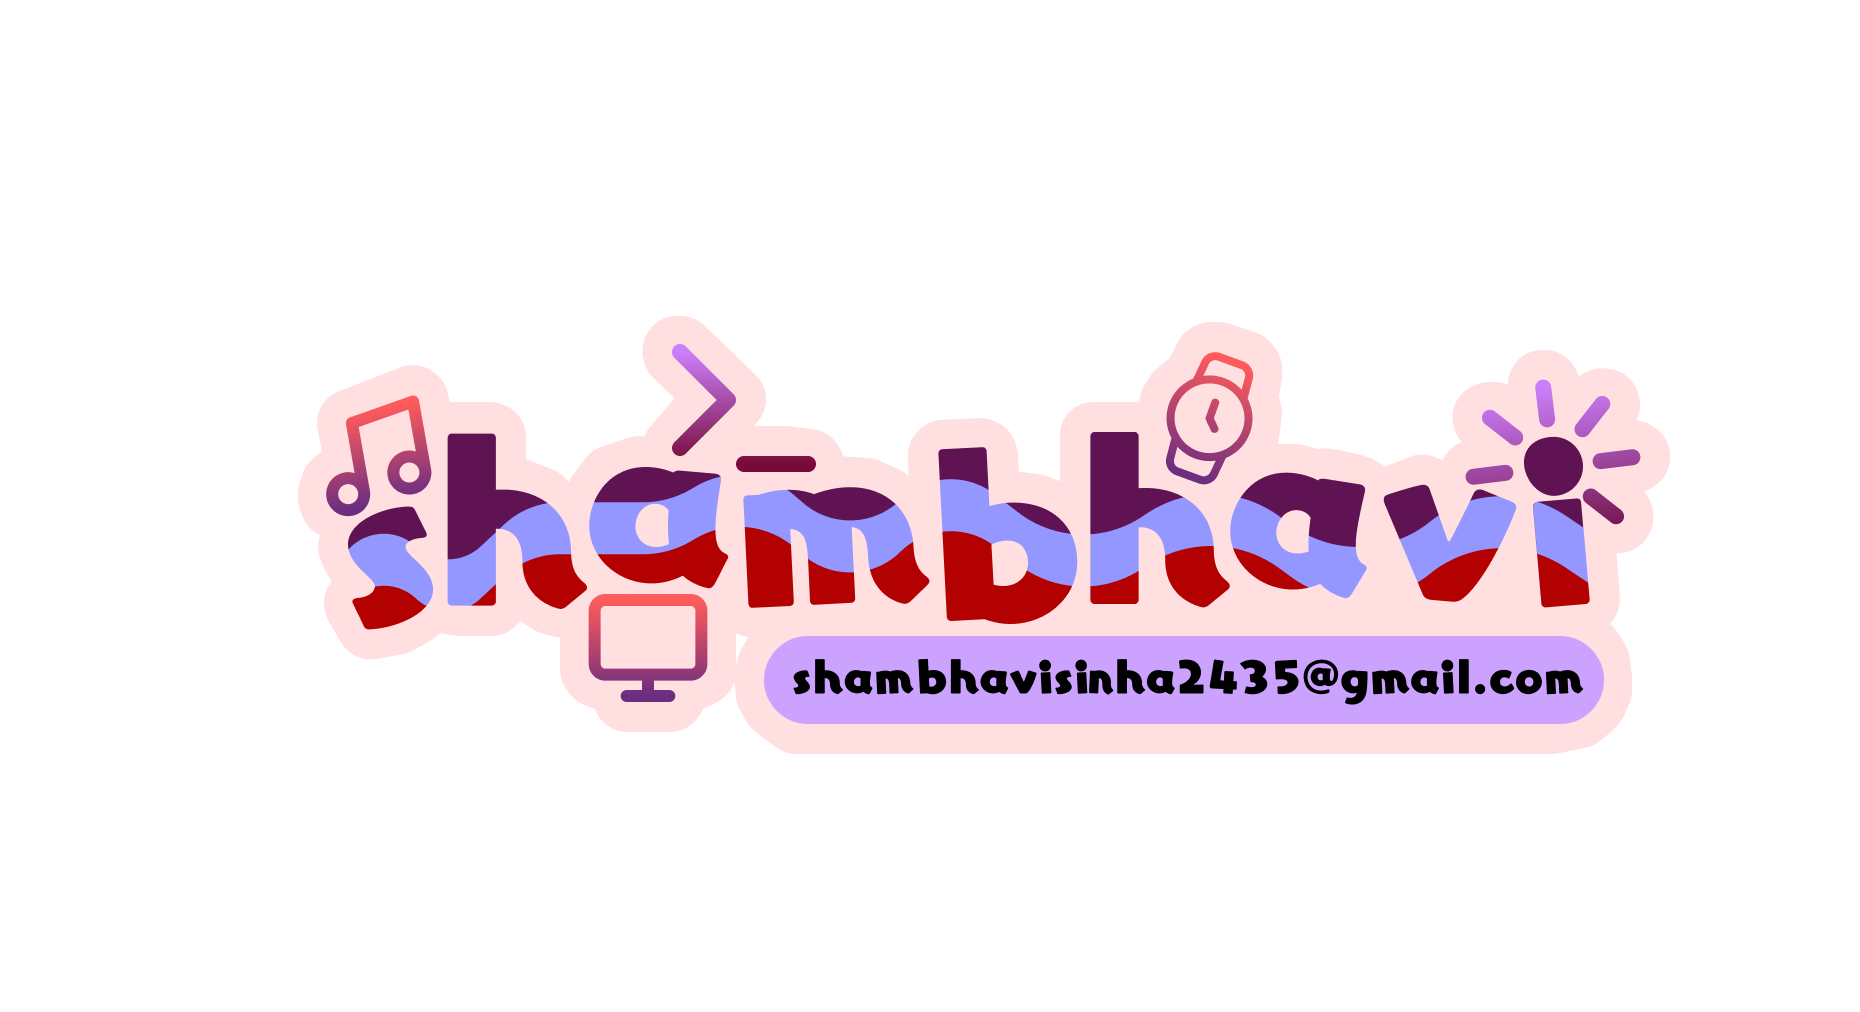
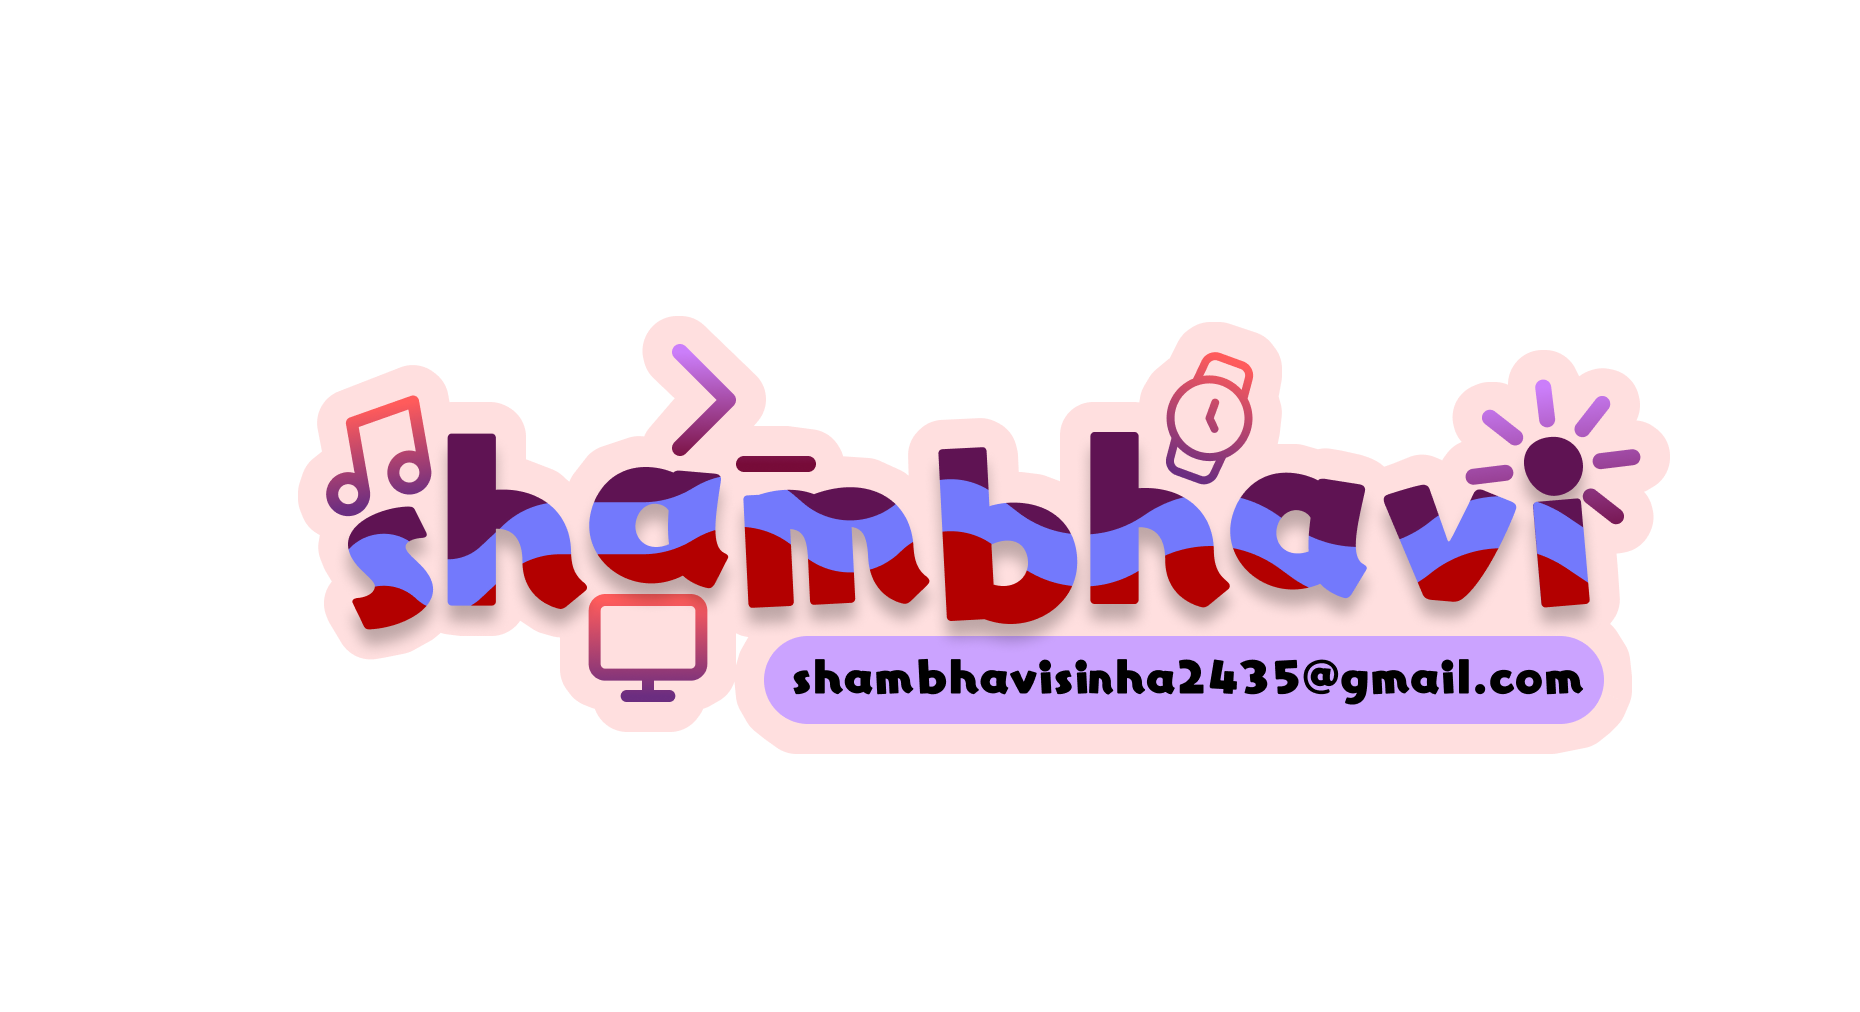
changed colour scheme

Changed region(s): [[0.1871, 0.4595, 0.8731, 0.6433], [0.4989, 0.6126, 0.5613, 0.6433]]

diff --git a/index.html b/index.html
@@ -6,68 +6,68 @@
     <link rel="stylesheet" href="style.css">
       <link rel="stylesheet" href="https://cdnjs.cloudflare.com/ajax/libs/font-awesome/6.0.0-beta3/css/all.min.css">
   </head>
-    <body class = "aboutMe">
+  <body>
+    <header>
+        <h1><img id = "name" src="name sticker.png" alt="Shambhavi Sinha" </h1>
+    </header>
+    <main>
+        <section class="intro">
+            <img src="profile.jpg" alt="Profile Picture">
+            <p>Hello! I'm Shambhavi Sinha. I'm an A-level student with a passion for coding and making 
+              <span class="popup" class="link" onclick = "toggle(event)"> music. 
+                <span class="popupText" id="myPopup"> here's a piece I'm working on right now!
+                <audio controls><source src="music.mp3" type="audio/mpeg">Your browser does not support the audio element.</audio>
+                </span> 
+              </span> </p>
+        </section>
+      <h2>Some things I'm up to :)</h2>
+      <p><ul>
+        <li>Running a coding club at my school with the mission of encouraging more young women to pursue interests in technology and computer science.</li>
+        <li>Improving this site...</li>
+        <li>Making a 3D website of a music gallery!</li>
+        <li>Designing a PCB business card and will get it manufactured using the grant that Hackclub provides.</li>
+      </ul></p>
+       
 
-        <header>
-            <h1><img id = "name" src="name sticker.png" alt="Shambhavi Sinha" </h1>
-        </header>
-        <main>
-            <section class="intro">
-                <img src="profile.jpg" alt="Profile Picture">
-                <p>Hello! I'm Shambhavi Sinha. I'm an A-level student with a passion for coding and making 
-                  <span class="popup" class="link" onclick = "toggle(event)"> music. 
-                    <span class="popupText" id="myPopup"> here's a piece I'm working on right now!
-                    <audio controls><source src="music.mp3" type="audio/mpeg">Your browser does not support the audio element.</audio>
-                    </span> 
-                  </span> </p>
-            </section>
-          <h2>Some things I'm up to :)</h2>
-          <p><ul>
-            <li>Running a coding club at my school with the mission of encouraging more young women to pursue interests in technology and computer science.</li>
-            <li>Improving this site...</li>
-            <li>Making a 3D website of a music gallery!</li>
-            <li>Designing a PCB business card and will get it manufactured using the grant that Hackclub provides.</li>
-          </ul></p>
-            <section>
-                <p>Feel free to reach out to me at <a class = "link" href="mailto:shambhavisinha2435@gmail.com">shambhavisinha2435@gmail.com</a>.</p>
-                <p><a  href="https://github.com/shim-sham" target="_blank" ><i class="fab fa-github" id="github-link"></i></a></p>
-            </section>
-        </main>
+            <p>Feel free to reach out to me at <a class = "link" href="mailto:shambhavisinha2435@gmail.com">shambhavisinha2435@gmail.com</a>.</p>
+            <p><a  href="https://github.com/shim-sham" target="_blank" ><i class="fab fa-github" id="github-link"></i></a> </p>
+      
+    </main>
 
-        <script>
-            function toggle(event) {
-              event.stopPropagation();
-              var popup = document.getElementById("myPopup");
-              popup.classList.toggle("show");
-              document.addEventListener("click", closePopup);
+      <script>
+          function toggle(event) {
+            event.stopPropagation();
+            var popup = document.getElementById("myPopup");
+            popup.classList.toggle("show");
+            document.addEventListener("click", closePopup);
+          }
+  
+          function closePopup(event) {
+            var popup = document.getElementById("myPopup");
+            if (!popup.contains(event.target) && popup.classList.contains("show")) {
+              popup.classList.remove("show");
+              document.removeEventListener("click", closePopup);
             }
-
-            function closePopup(event) {
-              var popup = document.getElementById("myPopup");
-              if (!popup.contains(event.target) && popup.classList.contains("show")) {
-                popup.classList.remove("show");
-                document.removeEventListener("click", closePopup);
-              }
+          }
+  
+          function adjustPopupPosition(popup) {
+            var rect = popup.getBoundingClientRect();
+            var viewportWidth = window.innerWidth;
+  
+            if (rect.left < 0) {
+              popup.style.left = '0';
+              popup.style.transform = 'translateX(0)';
+            } else if (rect.right > viewportWidth) {
+              popup.style.left = 'auto';
+              popup.style.right = '0';
+              popup.style.transform = 'translateX(0)';
+            } else {
+              popup.style.left = '50%';
+              popup.style.right = 'auto';
+              popup.style.transform = 'translateX(-50%)';
             }
-
-            function adjustPopupPosition(popup) {
-              var rect = popup.getBoundingClientRect();
-              var viewportWidth = window.innerWidth;
-
-              if (rect.left < 0) {
-                popup.style.left = '0';
-                popup.style.transform = 'translateX(0)';
-              } else if (rect.right > viewportWidth) {
-                popup.style.left = 'auto';
-                popup.style.right = '0';
-                popup.style.transform = 'translateX(0)';
-              } else {
-                popup.style.left = '50%';
-                popup.style.right = 'auto';
-                popup.style.transform = 'translateX(-50%)';
-              }
-            }
-        </script>
-  </body>
+          }
+      </script>
+    </body>
 
 </html>

diff --git a/style.css b/style.css
@@ -3,26 +3,11 @@ html {
   width: 100%;
 }
 
-.link {
-  font-family: 'Courier New',monospace;
-  font-size: 20px;
-  background-color: #fcfceb;
-  color: #000000;
-  text-decoration: mediumpurple wavy underline;
-
-}
-
-.link:hover {
-  background-color: #FED766;
-  text-decoration: mediumpurple wavy underline;
-
-}
-
 body{
-  color:  #2c0434;
+  color: #5F1353	;
   font-size: 20px;
   font-family: 'Times New Roman', serif;
-  background-color: #fcfceb;
+  background-color: #CBA3FF;
   margin-left: 5%;
   margin-right:5%;
 }
@@ -37,8 +22,12 @@ header {
     padding: 20px;
     text-align: center;
 }
-h1 {
-  margin:0;
+h2 {
+}
+#name{
+  width: 75%;
+  margin-left: auto;
+  margin-right: auto;
 }
 
 .intro {
@@ -53,14 +42,23 @@ h1 {
   margin-right: 20px;
 }
 
-#name{
-  width: 50%;
-  margin-left: auto;
-  margin-right: auto;
+.link {
+  font-family: 'Courier New',monospace;
+  font-size: 20px;
+  text-decoration: darkslateblue wavy underline;
+  color: #5F1353	;
+
 }
-#name:hover{
-  
+
+.link:hover {
+  background-color: #FED766;
+  color: black;
+  text-decoration: darkslateblue wavy underline;
+
 }
+
+
+
 a:hover {
   text-decoration:underline;
 
@@ -68,7 +66,7 @@ a:hover {
 
 footer {
   background-color: #1C0221;
-  color: #FCFCEB;
+  color: mistyrose	;
   text-align: center;
   padding: 10px;
   position: absolute;
@@ -91,7 +89,7 @@ nav {
   position: relative;
   display: inline-block;
   cursor: pointer;
-  text-decoration:mediumpurple wavy underline;
+  text-decoration:darkslateblue	 wavy underline;
 }
 .popup:hover{
   background-color:#FED766 ;
@@ -100,9 +98,9 @@ nav {
 }
 .popup .popupText {
   visibility: hidden;
-  background-color: #1C0221;
+  background-color: #FFDFDF;
+  fill-opacity: 0.5;
   min-width: fit-content; 
-  color: #FED766;
   text-align: center;
   border-radius: 6px;
   padding: 10px ;
@@ -119,9 +117,8 @@ nav {
   top: 100%;
   left: 50%;
   transformX(-50%);  
-  border-width: 5px;
-  border-style: solid;
-  border-color: #555 transparent transparent transparent;
+
+  
 }
 
 .popup .show {
@@ -136,7 +133,7 @@ audio {
 }
 
 audio::-webkit-media-controls-panel {
-  background-color: #FCFCEB; 
+  background-color: #FF5B5B	; 
   border-radius: 5px;
   padding: 5px; 
 }
@@ -154,13 +151,13 @@ audio::-webkit-media-controls-volume-slider{
 }
 
 #github-link {
-  color: #940000;
+  color: #330500;
   font-size: 30px;
   text-decoration: none;
   
 }
 
 #github-link:hover {
-  color: #4c0080;
+  color: #5F1353;
   transform: scale(1.2);
 }
